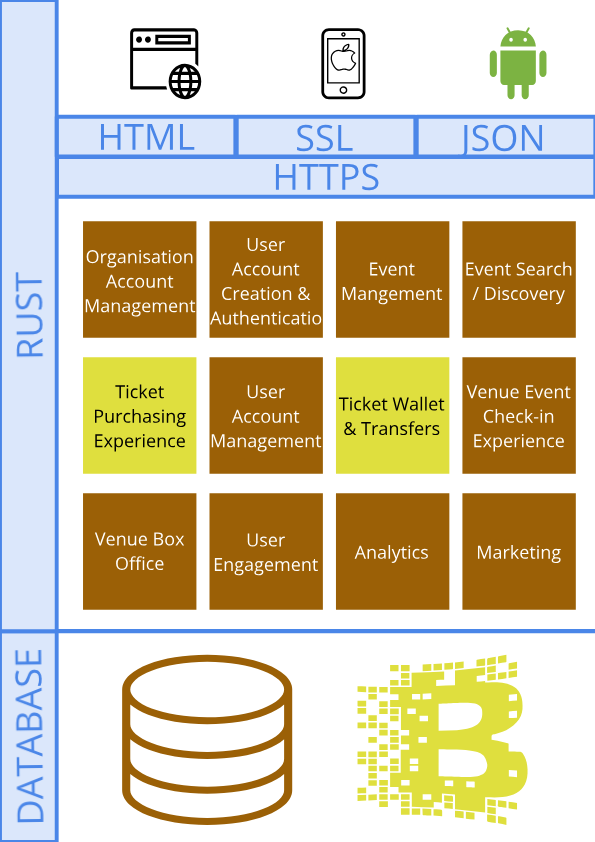
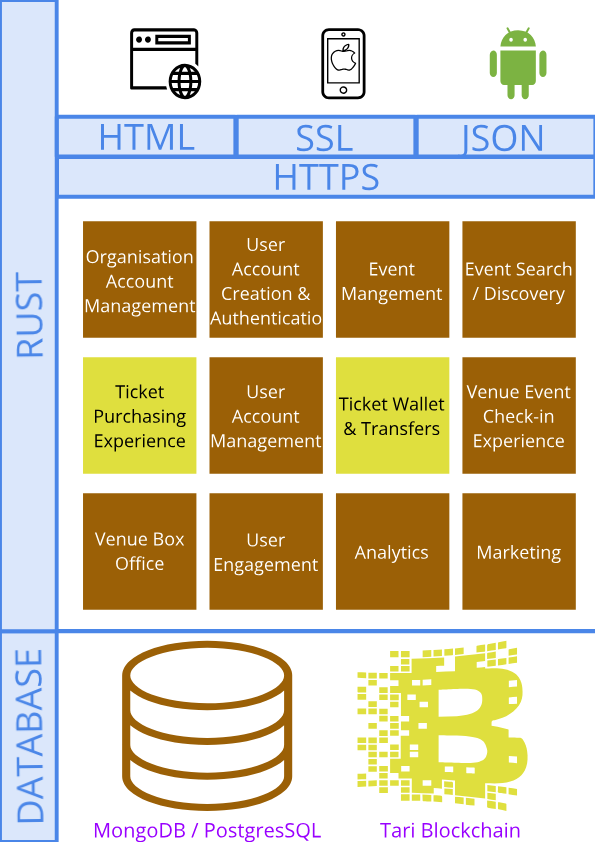
Design updates.

Changed region(s): [[0.1513, 0.7411, 0.5445, 1.0], [0.5748, 0.7411, 0.9076, 1.0]]

diff --git a/architecture.md b/architecture.md
@@ -61,14 +61,14 @@ MongoDB alleviates the bloat typically found when dealing with ORM model classes
  - Scalable - MongoDB supports horizontal scaling through Sharding, distributing data across several machines and facilitating high throughput operations with large sets of data.
  - Flexible - Allows us to adapt and make changes quickly.
  - Secure - Supports the following security measures:
- -- Enable Access Control and Enforce Authentication
--- Configure Role-Based Access Control
--- Encrypt Communication
--- Encrypt and Protect Data
--- Limit Network Exposure
--- Audit System Activity
--- Run MongoDB with a Dedicated User
--- Run MongoDB with Secure Configuration Options
+ -- Access Control and Enforce Authentication
+ -- Role-Based Access Control
+ -- Encrypted Communication
+ -- Encrypted and Protect Data
+ -- Limit Network Exposure
+ -- Audit System Activity
+ -- Run MongoDB with a Dedicated User
+ -- Run MongoDB with Secure Configuration Options
 
 ## Architecture
 
@@ -80,7 +80,7 @@ All components written in Rust (including REST endpoint) and supported by a Mong
  4. **Independent of Database**. You can swap out Oracle or SQL Server, for Mongo, BigTable, CouchDB, or something else. Your business rules are not bound to the database.
  5. **Independent of any external agency**. In fact your business rules simply don’t know anything at all about the outside world.
 
-![enter image description here](/docs/blob/feature/architecture/assets/Clean Architecture.jpg "Clean Architecture")
+![Clean Architecture](/docs/blob/feature/architecture/assets/Clean Architecture.jpg "Clean Architecture")
 
 This will result in a logical design style, and:
 - Help our software system be extensible, reusable, maintainable, and adaptable.
@@ -88,11 +88,11 @@ This will result in a logical design style, and:
 - Help newcomers understand the business features and the functionalities of the system (because it is small enough).
 - Will lend itself well to multiple contributors working on different features.
 
-The API will be supported by a MongoDB (excluding Financial Transaction Data - blockchain) backend, exposed as a REST API (implemented with Tokenised Role Based Access and SSL) and consumed by Web and Mobile interfaces which exposes the interactive consumer functionality. The JSON payloads between the interfaces and API represent a fast and convenient medium for direct storage in MongoDB.
+The API will be supported by a MongoDB and Tari Blockchain backend, exposed as a secure REST API (implemented with Tokenised Role Based Access and SSL) and consumed by Web and Mobile interfaces which exposes the interactive consumer functionality. The JSON payloads between the interfaces and API represent a fast and convenient medium for direct storage in MongoDB.
 
 ### Diagram
 
-![enter image description here](/docs/blob/feature/architecture/assets/Design.png "Design")
+![Design](/docs/blob/feature/architecture/assets/Design.png "Design")
 
 ## Conclusion
 
